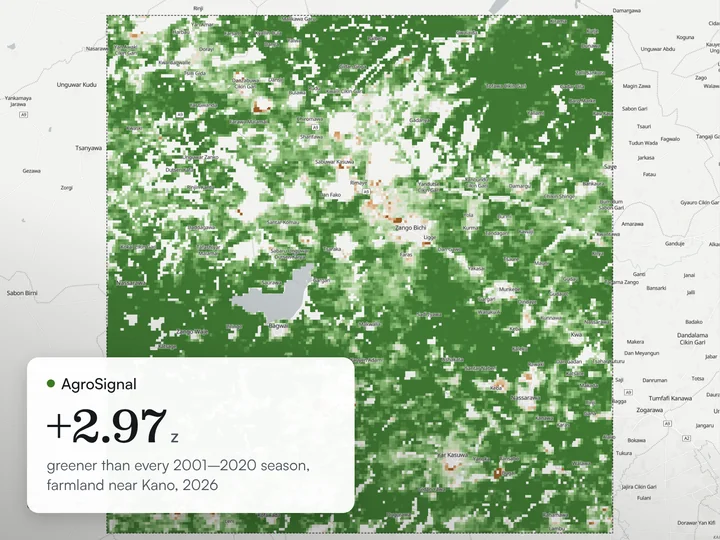
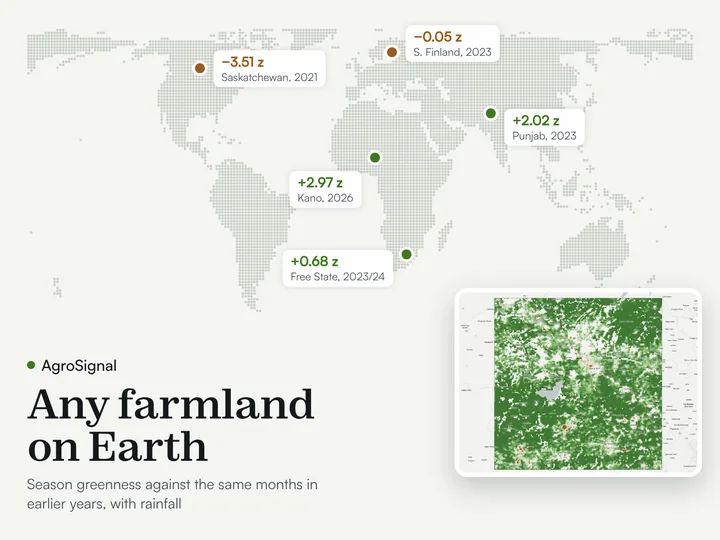
Global tool covers: world map with the sample places, the City twins card filling the top of its cover

diff --git a/fr/index.html b/fr/index.html
@@ -155,7 +155,7 @@
           <p class="inset-desc">Cherchez parmi 11 403 villes et trouvez une ville d’un autre pays au climat identique et de taille comparable, puis enregistrez ou partagez la carte de comparaison.</p>
           <p class="inset-actions"><span class="cta" aria-hidden="true">Ouvrir l’outil <span class="arrow">↗</span></span></p>
         </div>
-        <div class="inset-media"><img class="frame on" src="../assets/tools/citytwins-1200.webp" srcset="../assets/tools/citytwins-1600.webp 1600w, ../assets/tools/citytwins-1200.webp 1200w, ../assets/tools/citytwins-720.webp 720w" sizes="(min-width: 960px) 46vw, 92vw" width="1200" height="900" loading="lazy" decoding="async" alt="Carte Villes jumelles associant Lagos et Hô-Chi-Minh-Ville : vues satellite des deux villes, distantes de 11 320 km, sous la phrase « Même climat, taille comparable. Très semblables. »"><p class="map-cap">Lagos et sa jumelle, Hô-Chi-Minh-Ville</p></div>
+        <div class="inset-media"><img class="frame on" src="../assets/tools/citytwins-1200.webp" srcset="../assets/tools/citytwins-1600.webp 1600w, ../assets/tools/citytwins-1200.webp 1200w, ../assets/tools/citytwins-720.webp 720w" sizes="(min-width: 960px) 46vw, 92vw" width="1200" height="900" loading="lazy" decoding="async" alt="Carte Villes jumelles pour Lagos et Hô-Chi-Minh-Ville avec des vues satellite des deux villes, la phrase « Même climat, taille comparable » et une carte du monde avec l’arc qui les relie."><p class="map-cap">Lagos et sa jumelle, Hô-Chi-Minh-Ville</p></div>
       </article>
       <article class="inset reveal" id="tool-1" aria-labelledby="tt1">
         <div class="inset-text">
@@ -164,7 +164,7 @@
           <p class="inset-desc">Choisissez une zone et deux images radar. L’outil cartographie les nouvelles eaux libres, la population et l’occupation du sol qu’elles recouvrent, puis exporte en GeoTIFF, GeoJSON et sous forme de rapport.</p>
           <p class="inset-actions"><span class="cta" aria-hidden="true">Ouvrir l’outil <span class="arrow">↗</span></span></p>
         </div>
-        <div class="inset-media"><img class="frame on" src="../assets/tools/floodscope-1200.webp" srcset="../assets/tools/floodscope-1600.webp 1600w, ../assets/tools/floodscope-1200.webp 1200w, ../assets/tools/floodscope-720.webp 720w" sizes="(min-width: 960px) 46vw, 92vw" width="1200" height="900" loading="lazy" decoding="async" alt="Carte de la crue à la confluence du Niger et de la Bénoué à Lokoja sur image satellite, nouvelles eaux en bleu, avec la mention 22,4 km² de nouvelles eaux de crue en octobre 2022."><p class="map-cap">Lokoja, Nigeria, après la crue d’octobre 2022</p></div>
+        <div class="inset-media"><img class="frame on" src="../assets/tools/floodscope-1200.webp" srcset="../assets/tools/floodscope-1600.webp 1600w, ../assets/tools/floodscope-1200.webp 1200w, ../assets/tools/floodscope-720.webp 720w" sizes="(min-width: 960px) 46vw, 92vw" width="1200" height="900" loading="lazy" decoding="async" alt="Carte du monde avec la bande de 56° S à 78° N couverte par FloodScope, un repère à Lokoja, au Nigeria, et un encart de la crue d’octobre 2022."><p class="map-cap">Lokoja, Nigeria, après la crue d’octobre 2022</p></div>
       </article>
       <article class="inset reveal" id="tool-2" aria-labelledby="tt2">
         <div class="inset-text">
@@ -173,7 +173,7 @@
           <p class="inset-desc">La verdure de la saison sur les terres cultivées comparée aux mêmes mois d’une période de référence, pixel par pixel, avec les pluies de la saison, pour toute zone jusqu’à 2 500 km².</p>
           <p class="inset-actions"><span class="cta" aria-hidden="true">Ouvrir l’outil <span class="arrow">↗</span></span></p>
         </div>
-        <div class="inset-media"><img class="frame on" src="../assets/tools/agrosignal-1200.webp" srcset="../assets/tools/agrosignal-1600.webp 1600w, ../assets/tools/agrosignal-1200.webp 1200w, ../assets/tools/agrosignal-720.webp 720w" sizes="(min-width: 960px) 46vw, 92vw" width="1200" height="900" loading="lazy" decoding="async" alt="Carte des scores z de verdure de la saison sur les terres agricoles près de Kano, surtout vert foncé, avec la mention +2,97 : plus verte que chaque saison de 2001 à 2020."><p class="map-cap">Terres agricoles autour de Bagwai, État de Kano, juin–octobre 2026</p></div>
+        <div class="inset-media"><img class="frame on" src="../assets/tools/agrosignal-1200.webp" srcset="../assets/tools/agrosignal-1600.webp 1600w, ../assets/tools/agrosignal-1200.webp 1200w, ../assets/tools/agrosignal-720.webp 720w" sizes="(min-width: 960px) 46vw, 92vw" width="1200" height="900" loading="lazy" decoding="async" alt="Carte du monde avec cinq régions agricoles et leurs scores z de verdure de saison, de −3,51 en Saskatchewan en 2021 à +2,97 près de Kano en 2026, et un encart de Kano."><p class="map-cap">Terres agricoles autour de Bagwai, État de Kano, juin–octobre 2026</p></div>
       </article>
       <article class="inset reveal" id="tool-3" aria-labelledby="tt3">
         <div class="inset-text">
@@ -182,7 +182,7 @@
           <p class="inset-desc">Validation croisée aléatoire contre validation par blocs spatiaux d’une forêt aléatoire sur vos propres points, avec scikit-learn dans le navigateur. Vos données ne quittent jamais votre ordinateur.</p>
           <p class="inset-actions"><span class="cta" aria-hidden="true">Ouvrir l’outil <span class="arrow">↗</span></span></p>
         </div>
-        <div class="inset-media"><img class="frame on" src="../assets/tools/geovalidate-1200.webp" srcset="../assets/tools/geovalidate-1600.webp 1600w, ../assets/tools/geovalidate-1200.webp 1200w, ../assets/tools/geovalidate-720.webp 720w" sizes="(min-width: 960px) 46vw, 92vw" width="1200" height="900" loading="lazy" decoding="async" alt="Carte des points d’échantillon de la forêt de Mau regroupés en blocs colorés de 10 km, avec la précision : 93,2 % en plis aléatoires et 88,8 % en blocs spatiaux."><p class="map-cap">Échantillon de la forêt de Mau, mis de côté par blocs de 10 km</p></div>
+        <div class="inset-media"><img class="frame on" src="../assets/tools/geovalidate-1200.webp" srcset="../assets/tools/geovalidate-1600.webp 1600w, ../assets/tools/geovalidate-1200.webp 1200w, ../assets/tools/geovalidate-720.webp 720w" sizes="(min-width: 960px) 46vw, 92vw" width="1200" height="900" loading="lazy" decoding="async" alt="Carte du monde avec un repère dans la forêt de Mau, au Kenya, un encart des points d’échantillon en blocs colorés de 10 km, et la précision qui passe de 93,2 % à 88,8 %."><p class="map-cap">Échantillon de la forêt de Mau, mis de côté par blocs de 10 km</p></div>
       </article>
     </div>
   </div></section>

diff --git a/de/index.html b/de/index.html
@@ -155,7 +155,7 @@
           <p class="inset-desc">Suchen Sie unter 11.403 Städten eine Stadt in einem anderen Land mit demselben Klima und ähnlicher Größe, und speichern oder teilen Sie die Vergleichskarte.</p>
           <p class="inset-actions"><span class="cta" aria-hidden="true">Werkzeug öffnen <span class="arrow">↗</span></span></p>
         </div>
-        <div class="inset-media"><img class="frame on" src="../assets/tools/citytwins-1200.webp" srcset="../assets/tools/citytwins-1600.webp 1600w, ../assets/tools/citytwins-1200.webp 1200w, ../assets/tools/citytwins-720.webp 720w" sizes="(min-width: 960px) 46vw, 92vw" width="1200" height="900" loading="lazy" decoding="async" alt="Städtezwillinge-Karte mit Lagos und Ho-Chi-Minh-Stadt: Satellitenbilder beider Städte, 11.320 km voneinander entfernt, unter der Zeile „Gleiches Klima, ähnliche Größe. Sehr ähnlich.“"><p class="map-cap">Lagos und sein Zwilling, Ho-Chi-Minh-Stadt</p></div>
+        <div class="inset-media"><img class="frame on" src="../assets/tools/citytwins-1200.webp" srcset="../assets/tools/citytwins-1600.webp 1600w, ../assets/tools/citytwins-1200.webp 1200w, ../assets/tools/citytwins-720.webp 720w" sizes="(min-width: 960px) 46vw, 92vw" width="1200" height="900" loading="lazy" decoding="async" alt="Städtezwillinge-Karte für Lagos und Ho-Chi-Minh-Stadt mit Satellitenbildern beider Städte, der Zeile „Gleiches Klima, ähnliche Größe“ und einer Weltkarte mit dem Bogen zwischen ihnen."><p class="map-cap">Lagos und sein Zwilling, Ho-Chi-Minh-Stadt</p></div>
       </article>
       <article class="inset reveal" id="tool-1" aria-labelledby="tt1">
         <div class="inset-text">
@@ -164,7 +164,7 @@
           <p class="inset-desc">Wählen Sie ein Gebiet und zwei Radarbilder. Das Werkzeug kartiert das neue offene Wasser sowie die Bevölkerung und Landbedeckung darin und exportiert GeoTIFF, GeoJSON und einen Bericht.</p>
           <p class="inset-actions"><span class="cta" aria-hidden="true">Werkzeug öffnen <span class="arrow">↗</span></span></p>
         </div>
-        <div class="inset-media"><img class="frame on" src="../assets/tools/floodscope-1200.webp" srcset="../assets/tools/floodscope-1600.webp 1600w, ../assets/tools/floodscope-1200.webp 1200w, ../assets/tools/floodscope-720.webp 720w" sizes="(min-width: 960px) 46vw, 92vw" width="1200" height="900" loading="lazy" decoding="async" alt="Hochwasserkarte des Zusammenflusses von Niger und Benue bei Lokoja über Satellitenbild, neues Hochwasser in Blau, beschriftet mit 22,4 km² neuem Hochwasser im Oktober 2022."><p class="map-cap">Lokoja, Nigeria, nach dem Hochwasser im Oktober 2022</p></div>
+        <div class="inset-media"><img class="frame on" src="../assets/tools/floodscope-1200.webp" srcset="../assets/tools/floodscope-1600.webp 1600w, ../assets/tools/floodscope-1200.webp 1200w, ../assets/tools/floodscope-720.webp 720w" sizes="(min-width: 960px) 46vw, 92vw" width="1200" height="900" loading="lazy" decoding="async" alt="Weltkarte mit dem von FloodScope abgedeckten Band von 56° S bis 78° N, einer Markierung bei Lokoja, Nigeria, und einem Ausschnitt des Hochwassers vom Oktober 2022."><p class="map-cap">Lokoja, Nigeria, nach dem Hochwasser im Oktober 2022</p></div>
       </article>
       <article class="inset reveal" id="tool-2" aria-labelledby="tt2">
         <div class="inset-text">
@@ -173,7 +173,7 @@
           <p class="inset-desc">Das Grün der Saison auf Ackerland im Vergleich zu denselben Monaten einer Referenzperiode, Pixel für Pixel, mit dem Niederschlag der Saison, für jedes Gebiet bis 2.500 km².</p>
           <p class="inset-actions"><span class="cta" aria-hidden="true">Werkzeug öffnen <span class="arrow">↗</span></span></p>
         </div>
-        <div class="inset-media"><img class="frame on" src="../assets/tools/agrosignal-1200.webp" srcset="../assets/tools/agrosignal-1600.webp 1600w, ../assets/tools/agrosignal-1200.webp 1200w, ../assets/tools/agrosignal-720.webp 720w" sizes="(min-width: 960px) 46vw, 92vw" width="1200" height="900" loading="lazy" decoding="async" alt="Karte der z-Werte des Saisongrüns über Ackerland bei Kano, überwiegend tiefgrün, beschriftet mit +2,97: grüner als jede Saison von 2001 bis 2020."><p class="map-cap">Ackerland um Bagwai, Bundesstaat Kano, Juni–Oktober 2026</p></div>
+        <div class="inset-media"><img class="frame on" src="../assets/tools/agrosignal-1200.webp" srcset="../assets/tools/agrosignal-1600.webp 1600w, ../assets/tools/agrosignal-1200.webp 1200w, ../assets/tools/agrosignal-720.webp 720w" sizes="(min-width: 960px) 46vw, 92vw" width="1200" height="900" loading="lazy" decoding="async" alt="Weltkarte mit fünf Agrarregionen und ihren z-Werten des Saisongrüns, von −3,51 in Saskatchewan 2021 bis +2,97 bei Kano 2026, und einem Ausschnitt von Kano."><p class="map-cap">Ackerland um Bagwai, Bundesstaat Kano, Juni–Oktober 2026</p></div>
       </article>
       <article class="inset reveal" id="tool-3" aria-labelledby="tt3">
         <div class="inset-text">
@@ -182,7 +182,7 @@
           <p class="inset-desc">Zufällige gegenüber räumlicher Block-Kreuzvalidierung eines Random Forest auf Ihren eigenen Punkten, mit scikit-learn im Browser. Ihre Daten verlassen nie Ihren Computer.</p>
           <p class="inset-actions"><span class="cta" aria-hidden="true">Werkzeug öffnen <span class="arrow">↗</span></span></p>
         </div>
-        <div class="inset-media"><img class="frame on" src="../assets/tools/geovalidate-1200.webp" srcset="../assets/tools/geovalidate-1600.webp 1600w, ../assets/tools/geovalidate-1200.webp 1200w, ../assets/tools/geovalidate-720.webp 720w" sizes="(min-width: 960px) 46vw, 92vw" width="1200" height="900" loading="lazy" decoding="async" alt="Karte der Stichprobenpunkte im Mau-Wald in farbigen 10-km-Blöcken, beschriftet mit der Genauigkeit: 93,2 % mit zufälligen Folds und 88,8 % mit räumlichen Blöcken."><p class="map-cap">Stichprobe aus dem Mau-Wald, in 10-km-Blöcken zurückgehalten</p></div>
+        <div class="inset-media"><img class="frame on" src="../assets/tools/geovalidate-1200.webp" srcset="../assets/tools/geovalidate-1600.webp 1600w, ../assets/tools/geovalidate-1200.webp 1200w, ../assets/tools/geovalidate-720.webp 720w" sizes="(min-width: 960px) 46vw, 92vw" width="1200" height="900" loading="lazy" decoding="async" alt="Weltkarte mit einer Markierung im Mau-Wald, Kenia, einem Ausschnitt der Stichprobenpunkte in farbigen 10-km-Blöcken und der Genauigkeit, die von 93,2 % auf 88,8 % fällt."><p class="map-cap">Stichprobe aus dem Mau-Wald, in 10-km-Blöcken zurückgehalten</p></div>
       </article>
     </div>
   </div></section>

diff --git a/index.html b/index.html
@@ -156,7 +156,7 @@
           <p class="inset-desc">Search any of 11,403 cities and find a city in another country with the same climate and a similar size, then save or share the comparison card.</p>
           <p class="inset-actions"><span class="cta" aria-hidden="true">Open the tool <span class="arrow">↗</span></span></p>
         </div>
-        <div class="inset-media"><img class="frame on" src="assets/tools/citytwins-1200.webp" srcset="assets/tools/citytwins-1600.webp 1600w, assets/tools/citytwins-1200.webp 1200w, assets/tools/citytwins-720.webp 720w" sizes="(min-width: 960px) 46vw, 92vw" width="1200" height="900" loading="lazy" decoding="async" alt="City twins card pairing Lagos and Ho Chi Minh City: satellite views of both cities, 11,320 km apart, under the line “Same climate, similar size. Much alike.”"><p class="map-cap">Lagos and its twin, Ho Chi Minh City</p></div>
+        <div class="inset-media"><img class="frame on" src="assets/tools/citytwins-1200.webp" srcset="assets/tools/citytwins-1600.webp 1600w, assets/tools/citytwins-1200.webp 1200w, assets/tools/citytwins-720.webp 720w" sizes="(min-width: 960px) 46vw, 92vw" width="1200" height="900" loading="lazy" decoding="async" alt="City twins card for Lagos and Ho Chi Minh City with satellite views of both cities, the line “Same climate, similar size”, and a world map with the arc between them."><p class="map-cap">Lagos and its twin, Ho Chi Minh City</p></div>
       </article>
       <article class="inset reveal" id="tool-1" aria-labelledby="tt1">
         <div class="inset-text">
@@ -165,7 +165,7 @@
           <p class="inset-desc">Pick an area and two radar images. It maps the new open water and the people and land cover inside it, then exports GeoTIFF, GeoJSON and a report.</p>
           <p class="inset-actions"><span class="cta" aria-hidden="true">Open the tool <span class="arrow">↗</span></span></p>
         </div>
-        <div class="inset-media"><img class="frame on" src="assets/tools/floodscope-1200.webp" srcset="assets/tools/floodscope-1600.webp 1600w, assets/tools/floodscope-1200.webp 1200w, assets/tools/floodscope-720.webp 720w" sizes="(min-width: 960px) 46vw, 92vw" width="1200" height="900" loading="lazy" decoding="async" alt="Flood map of the Niger–Benue confluence at Lokoja over satellite imagery, new flood water in blue, labelled 22.4 km² of new flood water in October 2022."><p class="map-cap">Lokoja, Nigeria, after the October 2022 flood</p></div>
+        <div class="inset-media"><img class="frame on" src="assets/tools/floodscope-1200.webp" srcset="assets/tools/floodscope-1600.webp 1600w, assets/tools/floodscope-1200.webp 1200w, assets/tools/floodscope-720.webp 720w" sizes="(min-width: 960px) 46vw, 92vw" width="1200" height="900" loading="lazy" decoding="async" alt="World map with the band from 56° S to 78° N that FloodScope covers, a pin at Lokoja, Nigeria, and an inset of the October 2022 flood there."><p class="map-cap">Lokoja, Nigeria, after the October 2022 flood</p></div>
       </article>
       <article class="inset reveal" id="tool-2" aria-labelledby="tt2">
         <div class="inset-text">
@@ -174,7 +174,7 @@
           <p class="inset-desc">Season greenness over cropland against the same months in a baseline of years, pixel by pixel, with the season’s rainfall, for any area up to 2,500 km².</p>
           <p class="inset-actions"><span class="cta" aria-hidden="true">Open the tool <span class="arrow">↗</span></span></p>
         </div>
-        <div class="inset-media"><img class="frame on" src="assets/tools/agrosignal-1200.webp" srcset="assets/tools/agrosignal-1600.webp 1600w, assets/tools/agrosignal-1200.webp 1200w, assets/tools/agrosignal-720.webp 720w" sizes="(min-width: 960px) 46vw, 92vw" width="1200" height="900" loading="lazy" decoding="async" alt="Map of season greenness z-scores over farmland near Kano, mostly deep green, labelled +2.97: greener than every season of 2001–2020."><p class="map-cap">Farmland around Bagwai, Kano State, June–October 2026</p></div>
+        <div class="inset-media"><img class="frame on" src="assets/tools/agrosignal-1200.webp" srcset="assets/tools/agrosignal-1600.webp 1600w, assets/tools/agrosignal-1200.webp 1200w, assets/tools/agrosignal-720.webp 720w" sizes="(min-width: 960px) 46vw, 92vw" width="1200" height="900" loading="lazy" decoding="async" alt="World map with five farming regions and their season greenness z-scores, from −3.51 in Saskatchewan in 2021 to +2.97 near Kano in 2026, and an inset map of Kano."><p class="map-cap">Farmland around Bagwai, Kano State, June–October 2026</p></div>
       </article>
       <article class="inset reveal" id="tool-3" aria-labelledby="tt3">
         <div class="inset-text">
@@ -183,7 +183,7 @@
           <p class="inset-desc">Random against spatial block cross-validation of a Random Forest on your own points, run with scikit-learn in the browser. Your data never leave your computer.</p>
           <p class="inset-actions"><span class="cta" aria-hidden="true">Open the tool <span class="arrow">↗</span></span></p>
         </div>
-        <div class="inset-media"><img class="frame on" src="assets/tools/geovalidate-1200.webp" srcset="assets/tools/geovalidate-1600.webp 1600w, assets/tools/geovalidate-1200.webp 1200w, assets/tools/geovalidate-720.webp 720w" sizes="(min-width: 960px) 46vw, 92vw" width="1200" height="900" loading="lazy" decoding="async" alt="Map of sample points in the Mau Forest grouped into coloured 10 km blocks, labelled accuracy 93.2% with random folds and 88.8% with spatial blocks."><p class="map-cap">Mau Forest sample, held out in 10 km blocks</p></div>
+        <div class="inset-media"><img class="frame on" src="assets/tools/geovalidate-1200.webp" srcset="assets/tools/geovalidate-1600.webp 1600w, assets/tools/geovalidate-1200.webp 1200w, assets/tools/geovalidate-720.webp 720w" sizes="(min-width: 960px) 46vw, 92vw" width="1200" height="900" loading="lazy" decoding="async" alt="World map with a pin in the Mau Forest, Kenya, an inset of sample points in coloured 10 km blocks, and the accuracy falling from 93.2% to 88.8%."><p class="map-cap">Mau Forest sample, held out in 10 km blocks</p></div>
       </article>
     </div>
   </div></section>
